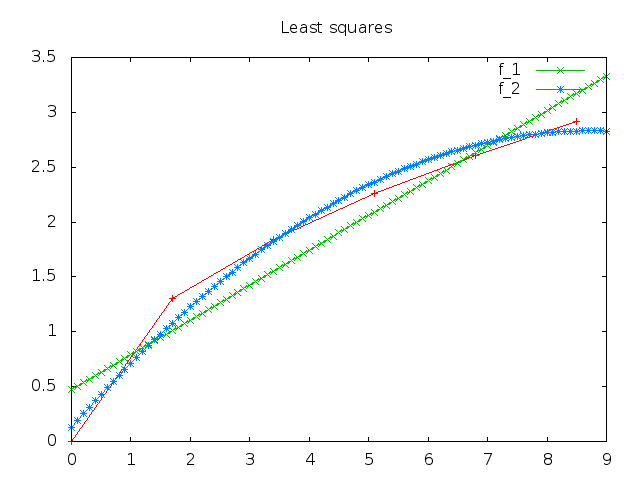
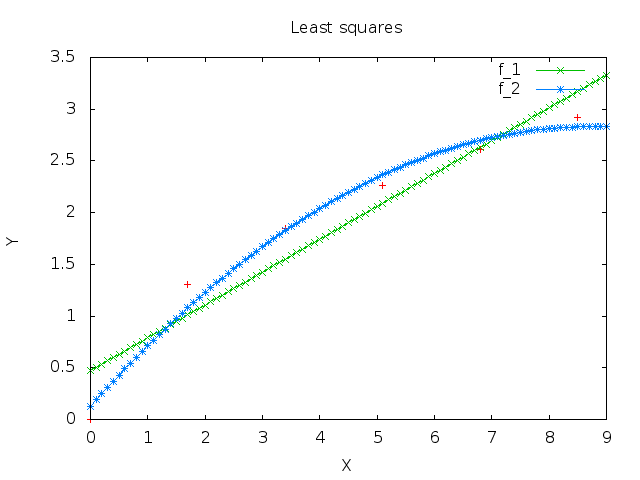
Added 2.* to labs

diff --git a/modules/analyze.rb b/modules/analyze.rb
@@ -5,14 +5,14 @@ module Analyze
     f_2 = ->(x) { 12 * x * x }
     n = Newton.new f, f_1, f_2, 1.5, 0.1
     xs, ys, xt, yt = generate_points n
-    Plot.render xs, ys, xt, yt, "Newton method", "newton", ds(xs,ys)
+    Plot.render xt, yt, "Newton method", "newton", ds(xs,ys)
   end
 
   def self.ei
     f = ->(x) { (2 * x + 1) ** 0.25 }
     n = NonlinearEI.new f, 0.2, 1.4, 0.1
     xs, ys, xt, yt = generate_points n
-    Plot.render xs, ys, xt, yt, "Easy iterations method", "ei", ds(xs,ys)
+    Plot.render xt, yt, "Easy iterations method", "ei", ds(xs,ys)
   end
 
   def self.least_squares
@@ -25,7 +25,7 @@ module Analyze
     0.step(9, 0.1).each { |x| x1 << x }
     y1 = x1.map { |x| f_1[x] }
     y2 = x1.map { |x| f_2[x] }
-    Plot.render x,y,"","","Least squares", "ls", [Plot.ds(x,y), Plot.ds(x1,y1,"f_1"), Plot.ds(x1,y2,"f_2")]
+    Plot.render "X","Y","Least squares", "ls", [Plot.ds(x,y,"","points"), Plot.ds(x1,y1,"f_1"), Plot.ds(x1,y2,"f_2")]
   end
 
   private
@@ -33,12 +33,13 @@ module Analyze
   def self.generate_points solver
     accuracy = []
     (1.0e-10).step(0.1, 1.0e-03) { |x| accuracy << x }
+    error = []
     iterations = accuracy.map do |e|
       solver.accuracy = e
-      solver.solution
+      error << (solver.solution-1.39534).abs
       solver.k
     end
-    return iterations, accuracy, "Iterations count", "Accuracy"
+    return iterations, error, "Iterations count", "Error"
   end
 
   def self.ds x, y

diff --git a/modules/labs.rb b/modules/labs.rb
@@ -27,4 +27,32 @@ module Labs
     m.rotate
     m.print_results
   end
+
+  def self.l2_1n
+    eval(IO.read(ARGV[1]))
+    eq = Newton.new @f, @f1, @f2, 1.5, e
+    puts eq.solution
+  end
+
+  def self.l2_1ei
+    eval(IO.read(ARGV[1]))
+    eq = NonlinearEI.new @f, 0.2, 1.4, e
+    puts eq.solution
+  end
+
+  def self.l2_2n
+    eval(IO.read(ARGV[1]))
+    eq = NewtonSystem.new @f1, @f2, @f11, @f22, @f12, @f21, [2.4, 4.0], e
+    puts eq.solution
+  end
+
+  def self.l2_2ei
+    eval(IO.read(ARGV[1]))
+    eq = NonlinearEISystem.new @f1, @f2, [2.4, 4.0], 0.7, e
+    puts eq.solution
+  end
+
+  def self.e
+    (ARGV[2] || 0.001).to_f
+  end
 end

diff --git a/modules/plot.rb b/modules/plot.rb
@@ -1,5 +1,5 @@
 module Plot
-  def self.render x, y, x_label = "X", y_label = "Y", title = "", filename = nil, data
+  def self.render x_label = "X", y_label = "Y", title = "", filename = nil, data
     require 'gnuplot'
     Gnuplot.open do |gp|
       Gnuplot::Plot.new( gp ) do |plot|
@@ -17,10 +17,10 @@ module Plot
     end
   end
   
-  def self.ds x, y, title=nil
+  def self.ds x, y, title=nil, with="linespoints"
     require 'gnuplot'
     Gnuplot::DataSet.new( [x, y] ) do |ds|
-      ds.with = "linespoints"
+      ds.with = with
       ds.notitle unless title
       ds.title = title if title
     end

diff --git a/main.rb b/main.rb
@@ -3,7 +3,9 @@ Dir[File.dirname(__FILE__) + '/modules/*.rb'].each {|file| require file }
 Dir[File.dirname(__FILE__) + '/algorythms/*.rb'].each {|file| require file }
 
 if __FILE__ == $0
-  Analyze.least_squares
-  exit
-  Labs.send "l#{ARGV[0]}"
+  if ARGV[0] == "-a"
+    Analyze.send "#{ARGV[1]}"
+  else
+    Labs.send "l#{ARGV[0]}"
+  end
 end

diff --git a/data/newton_s.rb b/data/newton_s.rb
@@ -1,0 +1,6 @@
+@f1 = ->(x1,x2) { x1 - Math.cos(x2) - 3 }
+@f2 = ->(x1,x2) { x2 - Math.sin(x1) - 3}
+@f11 = ->(x1,x2) { 1 }
+@f22 = ->(x1,x2) { 1 }
+@f12 = ->(x1,x2) { Math.sin(x2) }
+@f21 = ->(x1,x2) { -Math.cos(x1) }

diff --git a/data/newton.rb b/data/newton.rb
@@ -1,0 +1,3 @@
+@f = ->(x) { x * x * x * x - 2 * x - 1 }
+@f1 = ->(x) { 4 * x * x * x - 2 }
+@f2 = ->(x) { 12 * x * x }

diff --git a/data/nonlinear_ei_s.rb b/data/nonlinear_ei_s.rb
@@ -1,0 +1,2 @@
+@f1 = ->(x1,x2) { Math.cos(x2) + 3 }
+@f2 = ->(x1,x2) { Math.sin(x1) + 3 }

diff --git a/data/nonlinear_ei.rb b/data/nonlinear_ei.rb
@@ -1,0 +1,1 @@
+@f = ->(x) { (2 * x + 1) ** 0.25 }
